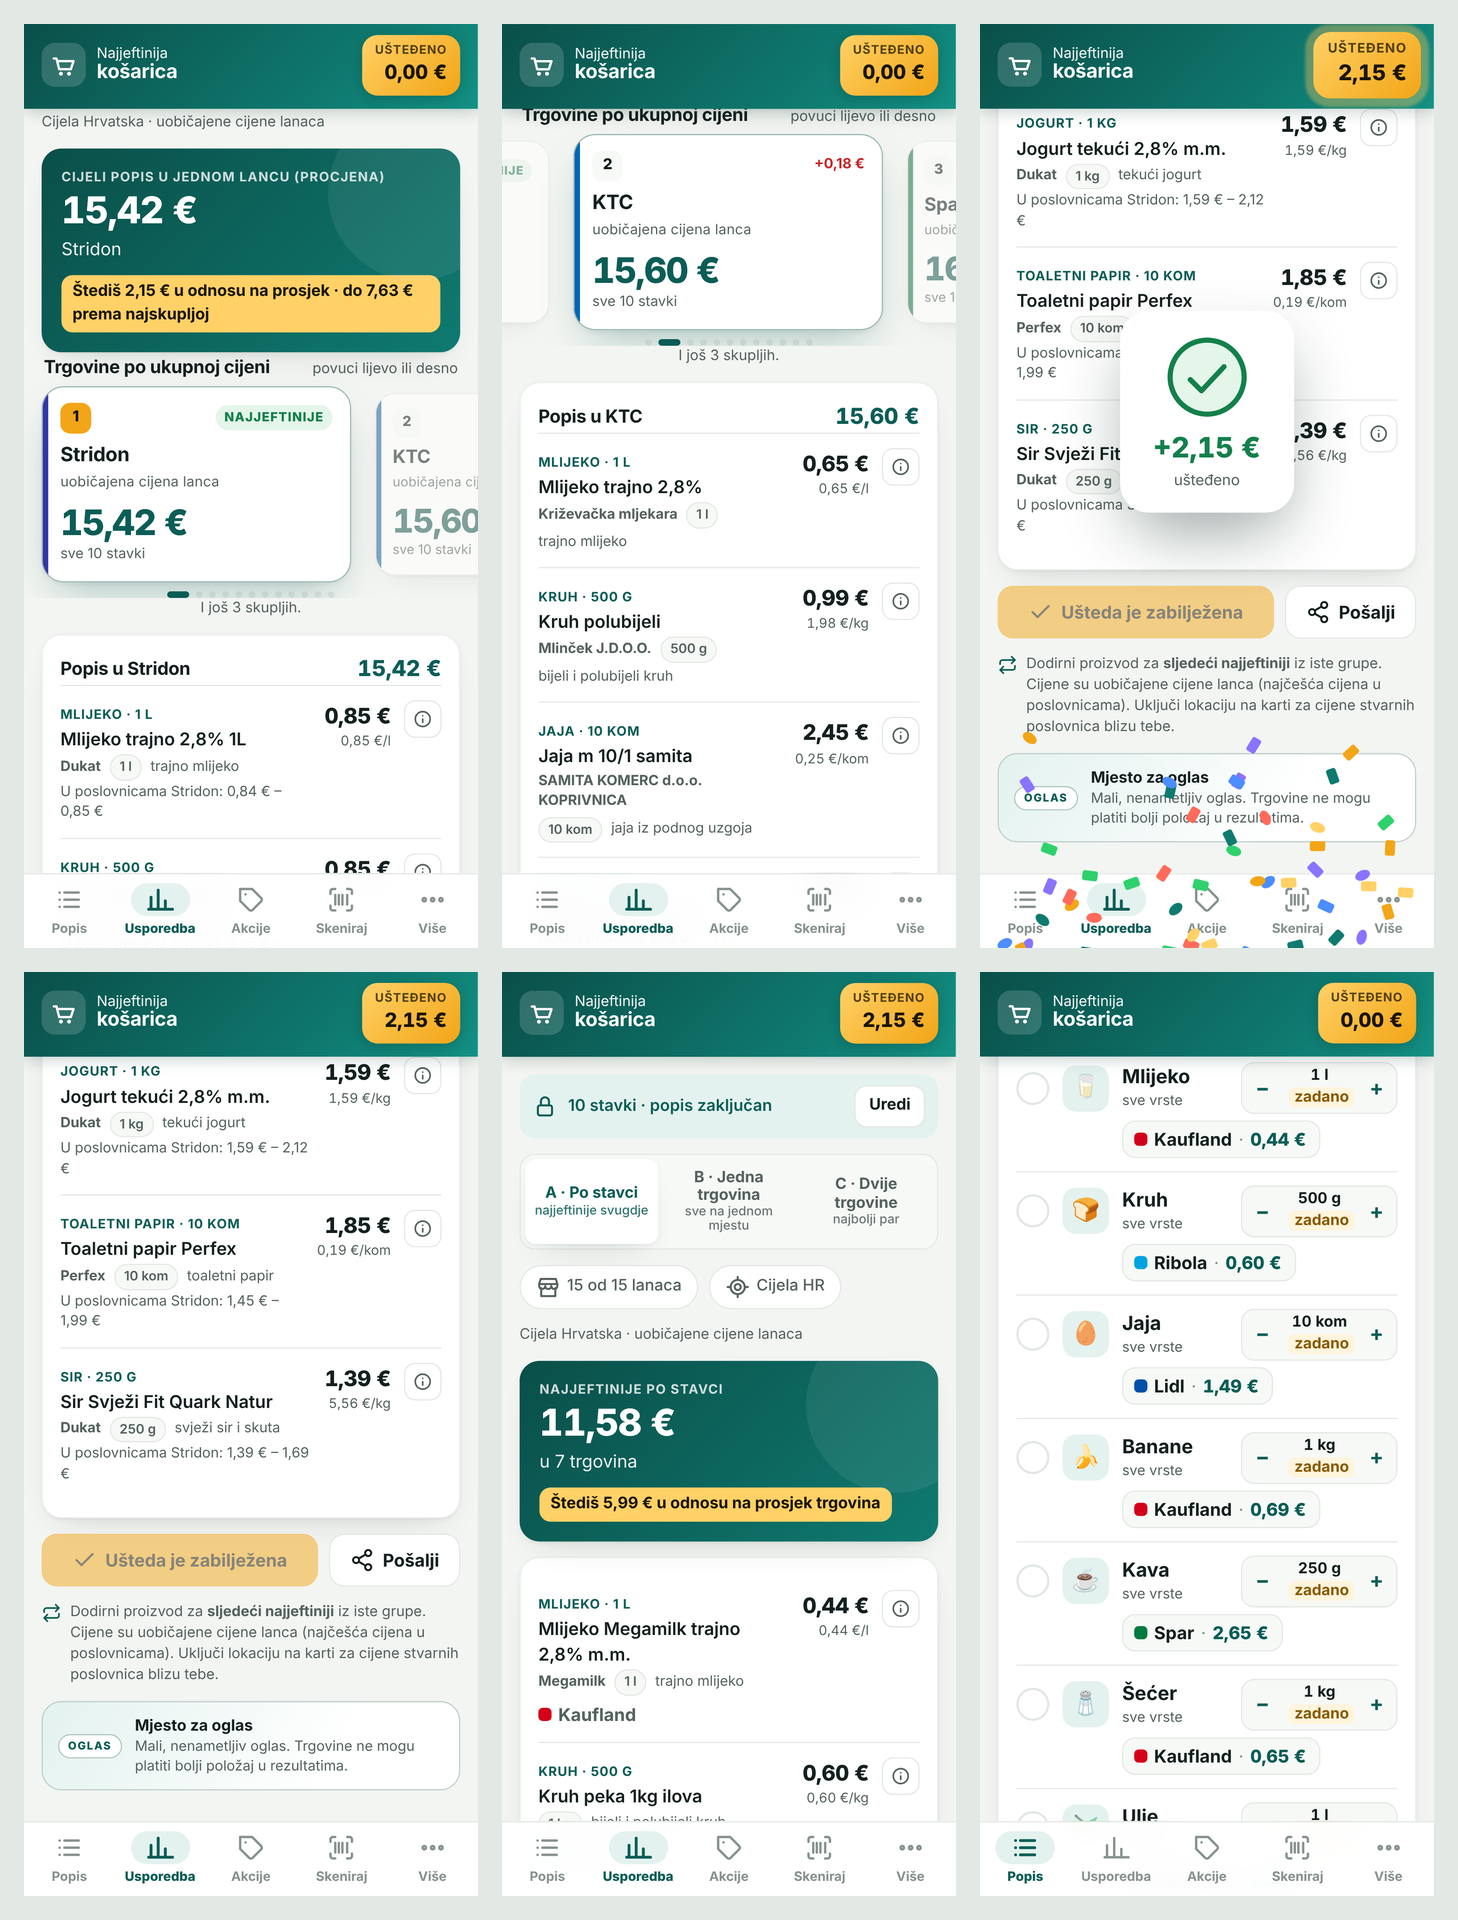
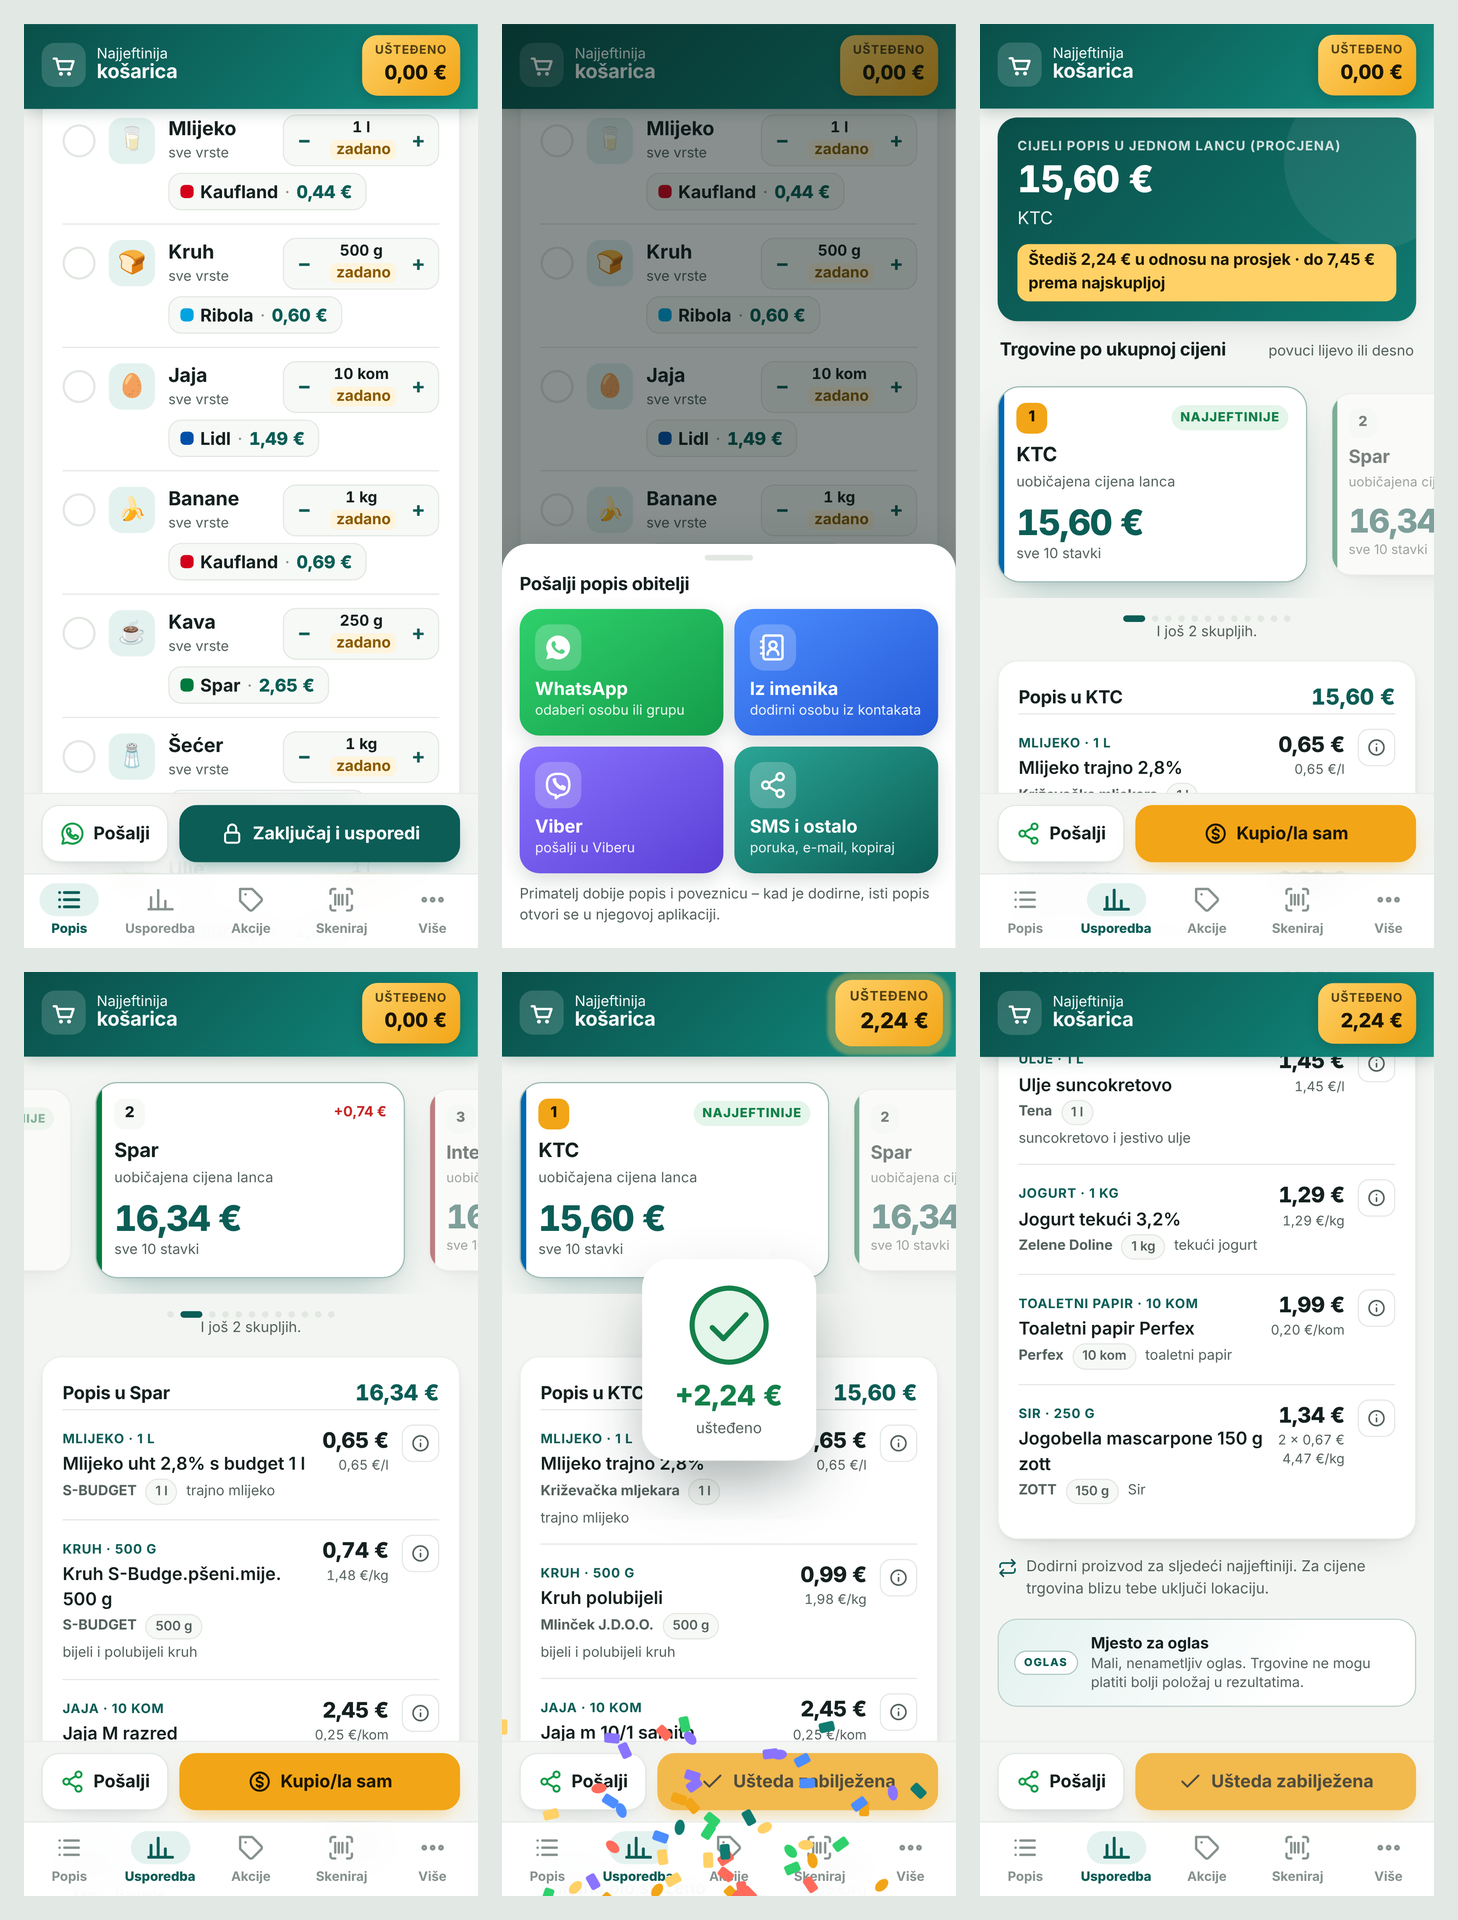
1.7.0: glavne radnje u donjoj zoni (jedna ruka), manje nereda, slanje iz ploče
- fiksna traka iznad izbornika: Pošalji + Zaključaj i usporedi / Kupio/la sam
- Pošalji otvara ploču s pločicama WhatsApp, imenik, Viber, SMS
- kraći savjeti, prostranije kartice; test: traka u donjoj četvrtini zaslona

Claude-Session: https://claude.ai/code/session_01XjqfQUE1jRX7f5uiX2HCuD

diff --git a/app/js/app.js b/app/js/app.js
@@ -228,6 +228,7 @@ function prikazi() {
       usteda: zaslonUsteda, favoriti: zaslonFavoriti, obitelj: zaslonObitelj, skener: zaslonSkener, status: zaslonStatus, trgovine: zaslonTrgovine,
       postavke: zaslonPostavke, greska: zaslonGreska, o: zaslonO };
     (zasloni[S.zaslon] || zaslonPopis)(sadrzaj);
+    document.body.classList.toggle('ima-traku', !!sadrzaj.querySelector('.donja-traka'));
   } catch (e) {
     zabiljezi('prikaz', e.message, e.stack);
     sadrzaj.innerHTML = karticaGreske('Ovaj zaslon se nije mogao prikazati.');
@@ -438,11 +439,13 @@ function zaslonPopis(el) {
           ${trgovinaStavke(najjeftinije.get(s.id))}
         </li>`).join('')}</ul>` : `<div class="prazno"><div class="velika">🧺</div><p>Popis je prazan. Reci, upiši ili dodirni nešto iz „${imaPovijest ? 'Često kupuješ' : 'Brzo dodaj'}”.</p></div>`}
     </section>
-    ${stavke.length ? plociceDijeljenja() : plocicePrecaca()}
-    ${stavke.length ? (S.zakljucano
-      ? `<button class="gumb glavni puni" data-idi="rezultati">Pogledaj rezultate</button>`
-      : `<button class="gumb glavni puni" data-akcija="zakljucaj">${IKONE.lokot} Zaključaj popis i usporedi cijene</button>
-         <p class="sitno" style="text-align:center">Količinu bez broja aplikacija postavlja na uobičajenu (npr. mlijeko 1 l, krumpir 1 kg) – promijeni je gumbima − i +. U trgovini dodirni kružić pokraj stavke kad je u košarici.</p>`) : ''}
+    ${stavke.length ? '' : plocicePrecaca()}
+    ${stavke.length ? `<div class="donja-traka" role="toolbar" aria-label="Glavne radnje">
+        <button class="gumb traka-sporedni" data-akcija="dijeli-ploca">${IKONE.whatsapp}<span>Pošalji</span></button>
+        ${S.zakljucano
+          ? `<button class="gumb glavni traka-glavni" data-idi="rezultati">${IKONE.status}<span>Pogledaj gdje je najjeftinije</span></button>`
+          : `<button class="gumb glavni traka-glavni" data-akcija="zakljucaj">${IKONE.lokot}<span>Zaključaj i usporedi</span></button>`}
+      </div>` : ''}
   </div>`;
   if (!S.zakljucano) {
     const polje = $('#upisPolje');
@@ -458,7 +461,7 @@ function zaslonPopis(el) {
 // Velike šarene pločice: slanje popisa (WhatsApp, imenik, Viber, ostalo)
 function plociceDijeljenja() {
   const t = encodeURIComponent(tekstPopisa());
-  return `<section class="kartica dijeli-kartica">
+  return `<section class="dijeli-kartica">
     <h3>Pošalji popis obitelji</h3>
     <div class="plocice">
       <a class="plocica wa" href="https://wa.me/?text=${t}" target="_blank" rel="noopener" data-dijeli="whatsapp"><span class="pl-ik">${IKONE.whatsapp}</span><b>WhatsApp</b><span>odaberi osobu ili grupu</span></a>
@@ -859,19 +862,21 @@ async function zaslonRezultati(el) {
     </div>
     <p class="sitno">${esc(mjesto)}${pr.krugNijeUcitan ? ' <button class="gumb mali" data-akcija="ponovno-poslovnice">Pokušaj ponovno</button>' : ''}${pr.neuspjele ? ` · <span class="upozorenje">${pr.neuspjele} trgovina se nije učitalo na vrijeme (slaba veza) i nisu u usporedbi</span> <button class="gumb mali" data-akcija="ponovno-poslovnice">Pokušaj ponovno</button>` : ''}</p>
     ${tijelo}
-    ${pr.popis.length ? `<p class="savjet">${IKONE.zamijeni}<span>Dodirni proizvod za <b>sljedeći najjeftiniji</b> iz iste grupe. ${pr.nacin === 'lanci' ? 'Cijene su uobičajene cijene lanca (najčešća cijena u poslovnicama). Uključi lokaciju na karti za cijene stvarnih poslovnica blizu tebe.' : 'Cijene su iz cjenika svake pojedine poslovnice.'}</span></p>` : ''}
+    ${pr.popis.length ? `<p class="savjet">${IKONE.zamijeni}<span>Dodirni proizvod za sljedeći najjeftiniji. ${pr.nacin === 'lanci' ? 'Za cijene trgovina blizu tebe uključi lokaciju.' : 'Cijene su iz cjenika svake poslovnice.'}</span></p>` : ''}
     ${oglas()}
   </div>`;
+  document.body.classList.toggle('ima-traku', !!el.querySelector('.donja-traka'));
   if (tab === 'B' && pr.popis.length) pripremiKarusel(b, pr);
 }
 
 function gumbiKupnje(iznos, prosjek, opis) {
   const kljuc = kljucIzracuna() + S.rezTab;
   const vec = S.kupljenoKljuc === kljuc;
-  return `<div class="redak" style="flex-wrap:wrap">
-    <button class="gumb naglaseni razmak" data-akcija="kupljeno" data-iznos="${iznos}" data-prosjek="${prosjek}" data-opis="${esc(opis)}" ${vec ? 'disabled' : ''}>
-      ${vec ? `${IKONE.kvacica} Ušteda je zabilježena` : `${IKONE.novac} Kupio/la sam – zabilježi uštedu`}</button>
-    <button class="gumb" data-akcija="podijeli-rezultat">${IKONE.podijeli} Pošalji</button></div>`;
+  // u donjoj zoni zaslona (jedna ruka), uvijek vidljivo iznad izbornika
+  return `<div class="donja-traka" role="toolbar" aria-label="Glavne radnje">
+    <button class="gumb traka-sporedni" data-akcija="podijeli-rezultat">${IKONE.podijeli}<span>Pošalji</span></button>
+    <button class="gumb naglaseni traka-glavni" data-akcija="kupljeno" data-iznos="${iznos}" data-prosjek="${prosjek}" data-opis="${esc(opis)}" aria-label="${vec ? 'Ušteda je zabilježena' : 'Kupio/la sam – zabilježi uštedu'}" ${vec ? 'disabled' : ''}>
+      ${vec ? `${IKONE.kvacica}<span>Ušteda zabilježena</span>` : `${IKONE.novac}<span>Kupio/la sam</span>`}</button></div>`;
 }
 
 function prikazA(a, b, pr) {
@@ -1676,6 +1681,7 @@ document.addEventListener('click', (e) => {
     case 'ponisti-ustedu': if (confirm('Obrisati povijest uštede?')) { S.usteda = { ukupno: 0, kupnje: [] }; spremi(); prikazi(); } break;
     case 'podijeli-rezultat': ponudiDijeljenje(tekstRezultata(), 'Pošalji popis i rezultat'); break;
     case 'podijeli-popis': ponudiDijeljenje(tekstPopisa(), 'Pošalji popis obitelji'); break;
+    case 'dijeli-ploca': otvoriPlocu(plociceDijeljenja()); break;
     case 'imenik': posaljiIzImenika(); break;
     case 'uvezi-kod': {
       const v = $('#kodPolje').value.trim();

diff --git a/app/css/stil.css b/app/css/stil.css
@@ -501,3 +501,28 @@ select.polje { appearance: none; background-image: linear-gradient(45deg, transp
   .trgovina-kartica, .karusel-tocke i { transition: none; }
   .pojava { animation: none; }
 }
+
+/* ================================================================ 1.7.0 (2): ergonomija – glavne radnje u donjoj zoni */
+.donja-traka {
+  position: fixed; left: 0; right: 0; z-index: 25; bottom: calc(var(--izbornik) + env(safe-area-inset-bottom));
+  display: flex; gap: 10px; padding: 10px 16px; max-width: 760px; margin: 0 auto;
+  background: color-mix(in srgb, var(--pozadina) 88%, transparent); backdrop-filter: blur(14px); -webkit-backdrop-filter: blur(14px);
+  border-top: 1px solid color-mix(in srgb, var(--rub) 70%, transparent);
+}
+.donja-traka .gumb { min-height: 52px; border-radius: 16px; font-weight: 750; gap: 8px; }
+.donja-traka .traka-sporedni { flex: none; padding: 0 16px; background: var(--kartica); border: 1px solid var(--rub); box-shadow: var(--sjena); }
+.donja-traka .traka-sporedni svg { color: #149c4a; }
+.donja-traka .traka-glavni { flex: 1; min-width: 0; font-size: 1rem; box-shadow: 0 8px 20px -8px rgba(11, 93, 86, .55); }
+.donja-traka .traka-glavni span { overflow: hidden; text-overflow: ellipsis; white-space: nowrap; }
+.donja-traka .gumb.naglaseni.traka-glavni { box-shadow: 0 8px 20px -8px rgba(242, 165, 22, .6); }
+.donja-traka .gumb:disabled { opacity: .75; box-shadow: none; }
+body.ima-traku .sadrzaj { padding-bottom: calc(var(--izbornik) + 104px + env(safe-area-inset-bottom)); }
+@media (max-width: 360px) { .donja-traka .traka-sporedni span { display: none; } }
+
+/* ploča za slanje: pločice bez okvira kartice */
+.ploca-sadrzaj .dijeli-kartica h3 { margin-bottom: 12px; }
+
+/* jednostavnost: prostranije kartice i mirniji razmaci */
+.kartica { padding: 18px; }
+.zaslon > * + * { margin-top: 16px; }
+.savjet { font-size: .85rem; }

diff --git a/PROJECT_STATE.md b/PROJECT_STATE.md
@@ -92,7 +92,10 @@ Nalog vlasnika: „Fix all the problems and continue with the app.”
 
 - **Verzija 1.7.0 – premium izgled (prijedlozi vlasnika 6.11.2026., provjereno 15:15 Europe/Zagreb).** Vlasnik je poslao 4 točke: (1) napredni flat dizajn sa suptilnim sjenama i jasnom hijerarhijom fontova (istaknuta cijena, tanje adrese); (2) kartice trgovina kao karusel/accordion – prva u fokusu, ostale u pozadini; (3) animacije uz „Kupio/la sam” (konfeti, iscrtavanje kvačice); (4) oglasi kao elegantni zaobljeni banneri s finim rubom u bojama aplikacije.
   - **Implementirano:** slojevite blage sjene i tanki rub kartica; cijene 1,22 rem/800, adrese 400/0,8 rem sivo (`.adresa`). B „Jedna trgovina”: vodoravni karusel (scroll-snap) – kartica u fokusu puna, ostale umanjene i prozirne, točkice; popis odabrane trgovine ispod se mijenja bez ponovnog crtanja zaslona (`karticaTrgovine`, `detaljiB`, `pripremiKarusel`). „Kupio/la sam”: 70 konfeta, kvačica koja se iscrta (SVG stroke), ušteda u zaglavlju odbroji do novog iznosa i zasvijetli; uz „smanji pokrete” samo kvačica i poruka (`slaviUstedu`). Oglas: zaobljeni banner, fini rub, oznaka „Oglas” u pilulici. Verzija 1.7.0.
-  - **Testirano:** Python 50 OK, Node 22/22, preglednik „SVE PROVJERE SU PROŠLE” (novo: karusel – prva u fokusu, dodir/klizanje mijenja trgovinu i popis, povratak; oglas; konfeti i kvačica, slavlje nestaje, ušteda odbrojana). Snimke: `docs/pregled-1.7.0.png` (lokalni podaci još sadrže Stridon).
+  - **Testirano:** Python 50 OK, Node 22/22, preglednik „SVE PROVJERE SU PROŠLE” (novo: karusel – prva u fokusu, dodir/klizanje mijenja trgovinu i popis, povratak; oglas; konfeti i kvačica, slavlje nestaje, ušteda odbrojana). Snimke: `docs/pregled-1.7.0.png`.
+
+- **1.7.0 (2) – ergonomija i jednostavnost (treći nalog vlasnika 6.11.2026., provjereno 15:25 Europe/Zagreb; vlasnik je tražio da se sva tri zadatka objave zajedno).** (1) Ključne radnje u donjoj zoni za jednu ruku: fiksna traka iznad izbornika – na popisu „Pošalji” + „Zaključaj i usporedi” (zaključan: „Pogledaj gdje je najjeftinije”), u rezultatima „Pošalji” + „Kupio/la sam”; „Pošalji” otvara ploču odozdo s pločicama WhatsApp / Iz imenika / Viber / SMS. (2) Manje nereda: pločice za slanje maknute iz sredine popisa, kraći savjeti, prostranije kartice (18 px) i razmaci. (3) Tipografija kao u točki 1 prvog naloga.
+  - **Testirano:** Python 50 OK, Node 22/22, preglednik „SVE PROVJERE SU PROŠLE” (novo: traka vidljiva i u donjoj četvrtini zaslona; slanje iz ploče). Snimka: `docs/pregled-1.7.0.png` (bez Stridona).
 
 ### Otvoreno / zapreke
 - ~~Za objavu: spojiti granu u `claude/dreamy-hopper-f6e4u0`~~ – riješeno PR-om #16 (vidi gore).

diff --git a/PLAN.md b/PLAN.md
@@ -106,3 +106,5 @@ Researched: Basket, Trolley, Usporedi cijene (HR) – whole-basket comparison by
 - [x] 3. "Kupio/la sam": confetti, a tick that draws itself, savings counter counts up (calm version when the phone asks for less motion).
 - [x] 4. Ads: elegant rounded banner with a fine border in the app's colours.
 - Tests: browser checks for the carousel, celebration and ad banner. Picture: `docs/pregled-1.7.0.png`. Version 1.7.0.
+- [x] One-hand use (owner's 3rd note): fixed action bar just above the bottom menu – list: "Pošalji" + "Zaključaj i usporedi"; results: "Pošalji" + "Kupio/la sam". "Pošalji" opens a bottom panel with WhatsApp / phone book / Viber / SMS tiles.
+- [x] Less clutter: share tiles out of the middle of the list, shorter tips, roomier cards. Browser test checks the bar is visible in the bottom quarter of the screen.
